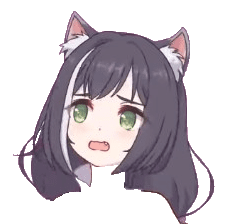
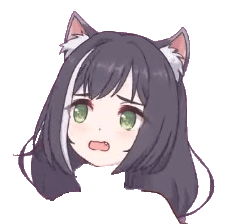
add more head

Changed region(s): [[0.3097, 0.7188, 0.4336, 0.8438]]

diff --git a/src/App.svelte b/src/App.svelte
@@ -1,10 +1,13 @@
 <script>
   import { fabric } from 'fabric'
   import ImageLoader from './ImageLoader.svelte'
+  import AddHeadButton from './AddHeadButton.svelte'
   import Canvas from './Canvas.svelte'
   import Image from './Image.svelte'
   import Head from './Head.svelte'
   import Footer from './Footer.svelte'
+  import kyaru from './images/kyaru.png'
+  import kyaru2 from './images/kyaru2.png'
 
   let canvas, image, scale, heads = []
   let result
@@ -29,8 +32,8 @@
     heads = []
   }
 
-  function addHead () {
-    heads = [...heads, { id: Date.now() }]
+  function addHead (e) {
+    heads = [...heads, e.detail.head]
   }
 
   function output () {
@@ -86,20 +89,25 @@
 </style>
 
 <div class='container'>
-  <h1>接頭霸王 v0.1</h1>
+  <h1>接頭霸王 v0.2</h1>
   <div class='form-row'>
     <div class='col form-group'>
-      <label>選一張圖:</label>
+      <div>第一步, 選擇原圖:</div>
       <ImageLoader on:load={replaceImage} />
     </div>
     <div class='col form-group'>
-      <label>加頭:</label>
-      <button class='btn btn-outline-secondary' on:click={addHead}>
-        加一顆頭
-      </button>
+      <div>第二步, 加頭:</div>
+      <div class='btn-group'>
+        <AddHeadButton source={kyaru} on:add={addHead} />
+        <AddHeadButton source={kyaru2} on:add={addHead} />
+      </div>
+    </div>
+    <div class='col'>
+      <div>第三步, 把頭拖到喜歡的地方,</div>
+      <div>(可拖拉控制點翻轉圖片!)</div>
     </div>
     <div class='col form-group'>
-      <label>下載並分享:</label>
+      <div>最後, 下載並分享:</div>
       <button class='btn btn-outline-secondary' on:click={output}>
         下載圖片
       </button>

diff --git a/src/Head.svelte b/src/Head.svelte
@@ -3,13 +3,13 @@
   import { fabric } from 'fabric'
   import kyaru from './images/kyaru.png'
 
-  export let canvas, head
+  export let canvas, head, source
 
   let fabricImage
 
   onMount(() => {
     const image = new Image()
-    image.src = kyaru
+    image.src = head.source
     image.onload = function () {
       fabricImage = new fabric.Image(image, {
         head,

diff --git a/src/AddHeadButton.svelte b/src/AddHeadButton.svelte
@@ -1,0 +1,15 @@
+<script>
+  import { createEventDispatcher } from 'svelte'
+
+  export let source
+
+  const dispatch = createEventDispatcher()
+
+  function addHead () {
+    dispatch('add', { head: { id: Date.now(), source } })
+  }
+</script>
+
+<button class='btn btn-outline-secondary' on:click={addHead}>
+  <img src={source} width='50' />
+</button>
